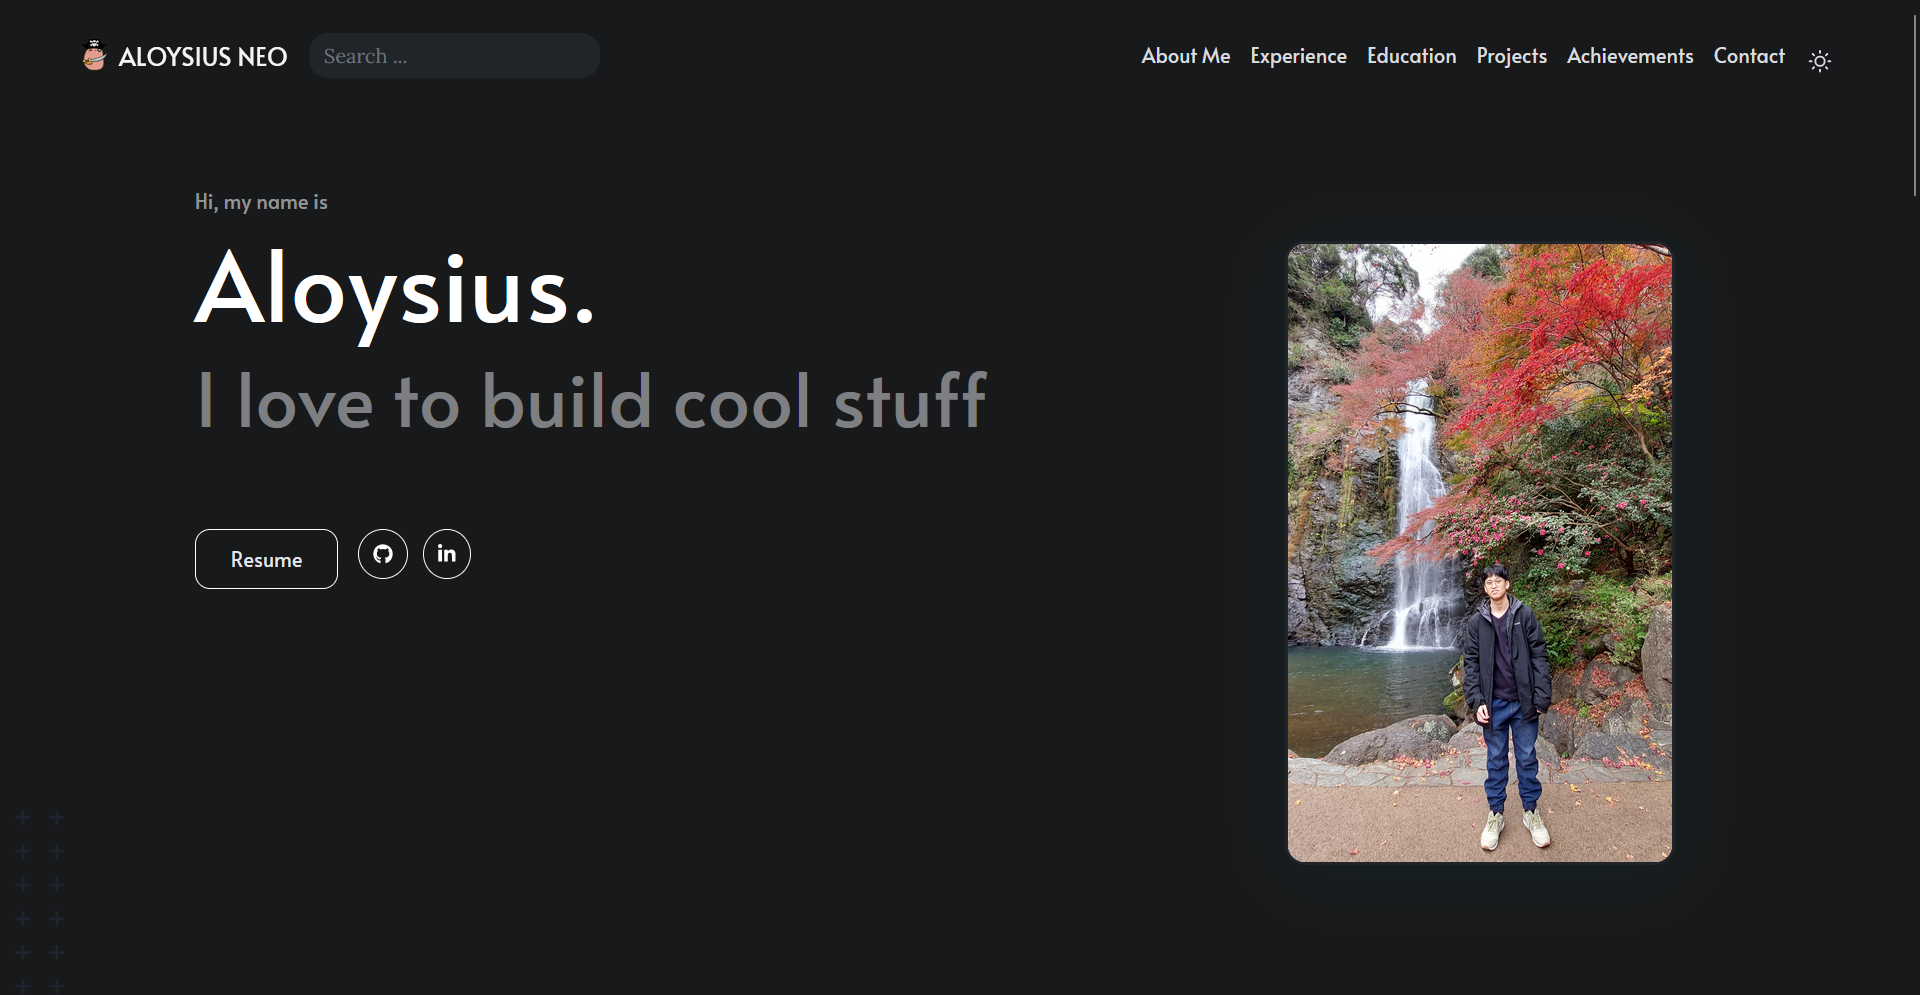
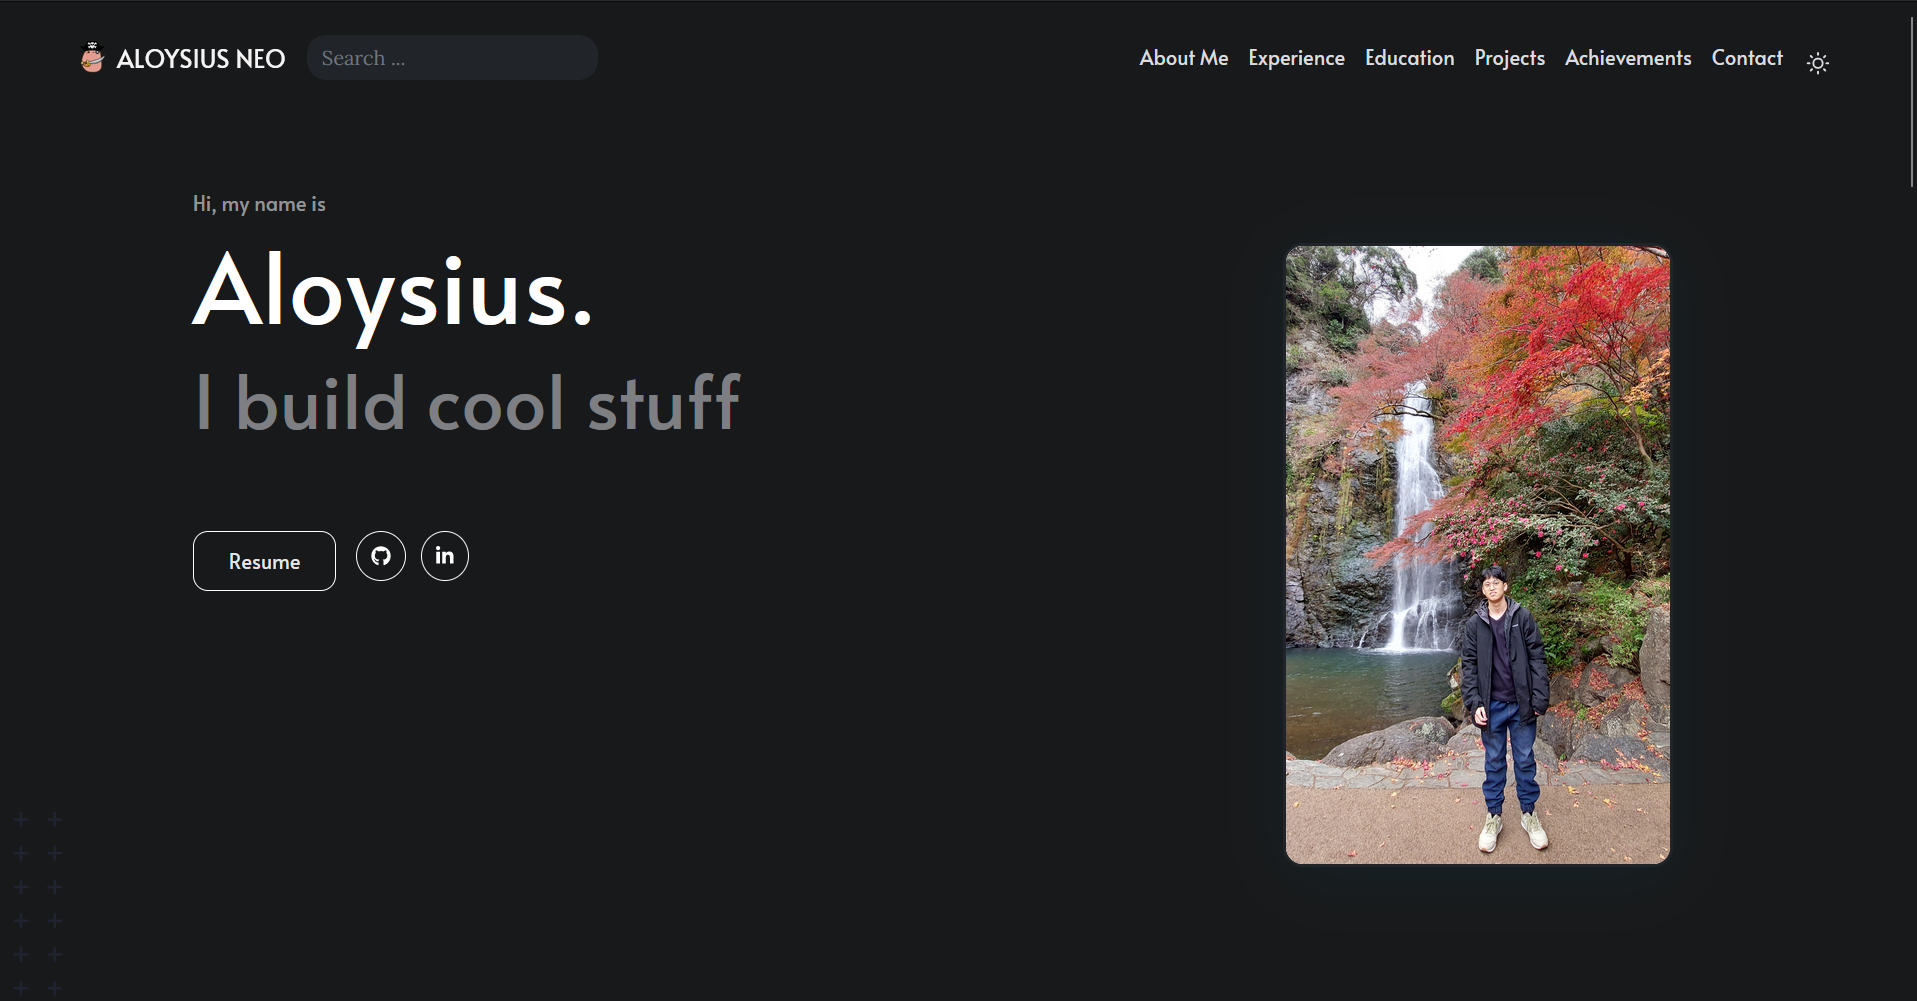
Update UI on README and repo link

diff --git a/index.html b/index.html
@@ -266,7 +266,7 @@ Aloysius Neo&#39;s Website
                     Aloysius.
                 </h2>
                 <h3>
-                    I love to build cool stuff
+                    I build cool stuff
                 </h3>
                 <p class="hero-content">
                     
@@ -592,7 +592,7 @@ Aloysius Neo&#39;s Website
 
 
                 
-                Here are a few technologies I&#39;ve been working with recently:
+                Here are a few technologies which I have used:
                 <ul>
                     
                     <li>Javascript</li>
@@ -602,6 +602,8 @@ Aloysius Neo&#39;s Website
                     <li>Java</li>
                     
                     <li>Python</li>
+                    
+                    <li>C</li>
                     
                     <li>Bootstrap (with this website!)</li>
                     
@@ -767,7 +769,7 @@ Aloysius Neo&#39;s Website
                         
                         
                         <span class="float-end">
-                            <a class="btn btn-sm" href="https://github.com/jianminglok/FitHup" target="_blank">
+                            <a class="btn btn-sm" href="https://github.com/Aloynz/FitHup" target="_blank">
                                 Repo
                             </a>
                         </span>
@@ -922,7 +924,7 @@ Aloysius Neo&#39;s Website
                         height="40px" width="40px">
                 </a>
             </div>
-            &copy; 2022  All Rights Reserved
+            &copy; 2023  All Rights Reserved
             <div class="text-secondary">
                 Made with
                 <span class="text-danger">

diff --git a/404.html b/404.html
@@ -276,7 +276,7 @@ Aloysius Neo&#39;s Website | 404 page not found
                         height="40px" width="40px">
                 </a>
             </div>
-            &copy; 2022  All Rights Reserved
+            &copy; 2023  All Rights Reserved
             <div class="text-secondary">
                 Made with
                 <span class="text-danger">

diff --git a/categories/index.html b/categories/index.html
@@ -286,7 +286,7 @@ Categories | Aloysius Neo&#39;s Website
                         height="40px" width="40px">
                 </a>
             </div>
-            &copy; 2022  All Rights Reserved
+            &copy; 2023  All Rights Reserved
             <div class="text-secondary">
                 Made with
                 <span class="text-danger">

diff --git a/tags/index.html b/tags/index.html
@@ -286,7 +286,7 @@ Tags | Aloysius Neo&#39;s Website
                         height="40px" width="40px">
                 </a>
             </div>
-            &copy; 2022  All Rights Reserved
+            &copy; 2023  All Rights Reserved
             <div class="text-secondary">
                 Made with
                 <span class="text-danger">
